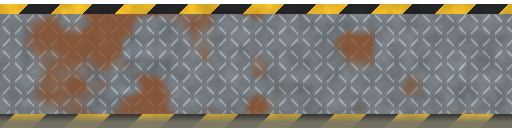
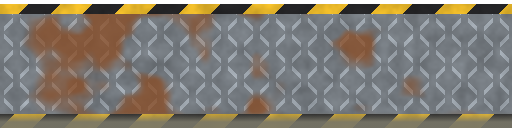
fix(art): close the Scrapyard tread pattern at the repeat edge (#538)

diff --git a/tools/art/level_materials.py b/tools/art/level_materials.py
@@ -27,10 +27,10 @@ SURFACE_OPAQUE_FROM = 24  # far edge may fray above this row; the contact side s
 SEGMENT = 16  # pixels compared at once across a repeat edge
 SEAM_FACTOR = 1.5  # the worst edge segment may differ at most this much more than the worst inner one
 SEAM_MEAN_FACTOR = 2.5  # the same for the whole edge, which catches a uniform colour step
-FRAYED_SHARE = .25  # share of each such row that must be fully transparent
+FRAYED_SHARE = .5  # share of each such row that must be fully transparent
 FOLD_LIMIT = 8  # mean brightness levels Surface and Band may differ near the fold
 FOLD_ROWS = 6  # rows compared on each side of the fold, averaged into one row
-FRAY_ROWS = 4  # rows of the Surface's far edge that must each be mostly transparent
+FRAY_ROWS = 4  # rows of the Surface's far edge that must each be mostly transparent; it may fray or be straight
 THUMB_LIMIT = .25  # mean brightness levels a thumbnail may differ from its preset
 
 
@@ -130,7 +130,7 @@ def check_preset(preset, out):
         errors.append(f'{name_}/surface: holes in the opaque zone')
     rows = [surface_alpha.crop((0, i, 512, i+1)).tobytes() for i in range(FRAY_ROWS)]
     if min(row.count(0)/len(row) for row in rows) < FRAYED_SHARE:
-        errors.append(f'{name_}/surface: far edge does not fray')
+        errors.append(f'{name_}/surface: far edge is not open')
     band_alpha = images['band'].getchannel('A')
     if band_alpha.crop((0, 127, 512, 128)).getextrema()[1] != 0:
         errors.append(f'{name_}/band: art reaches the last row')

diff --git a/tests/bootstrap/test_level_material_art.py b/tests/bootstrap/test_level_material_art.py
@@ -93,7 +93,7 @@ class BrokenPresets(unittest.TestCase):
         self.assertIn('holes', self.broken('surface', self.rect((100, 60, 110, 70), (0, 0, 0, 0))))
 
     def test_flat_far_edge(self):
-        self.assertIn('fray', self.broken('surface', self.rect((0, 0, 511, 0), (60, 90, 40, 254))))
+        self.assertIn('far edge', self.broken('surface', self.rect((0, 0, 511, 0), (60, 90, 40, 254))))
 
     def test_band_reaching_the_last_row(self):
         self.assertIn('last row', self.broken('band', self.rect((0, 127, 511, 127), (60, 90, 40, 255))))
@@ -126,7 +126,7 @@ class BrokenPresets(unittest.TestCase):
         self.assertIn('fold', self.broken('band', self.rect((0, 1, 511, 5), (255, 255, 255, 255))))
 
     def test_flat_surface_from_the_second_row(self):
-        self.assertIn('fray', self.broken('surface', self.rect((0, 1, 511, 3), (60, 90, 40, 255))))
+        self.assertIn('far edge', self.broken('surface', self.rect((0, 1, 511, 3), (60, 90, 40, 255))))
 
     def test_small_patch_in_a_thumbnail(self):
         self.assertIn('thumb', self.broken('thumb', self.rect((0, 0, 9, 9), (255, 0, 255, 255))))
